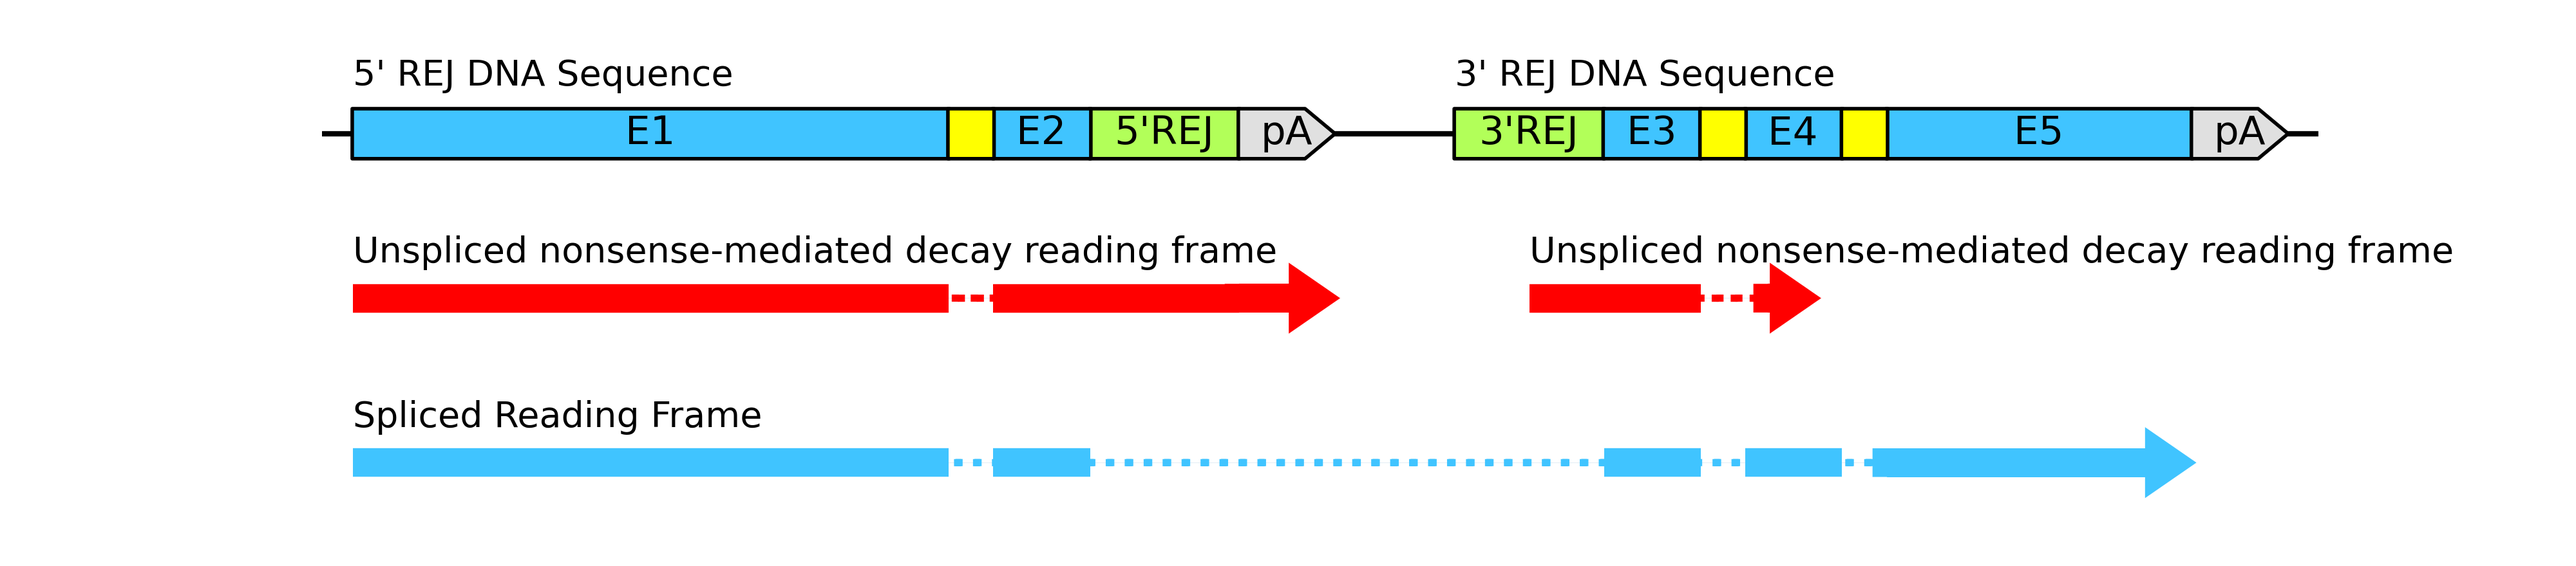
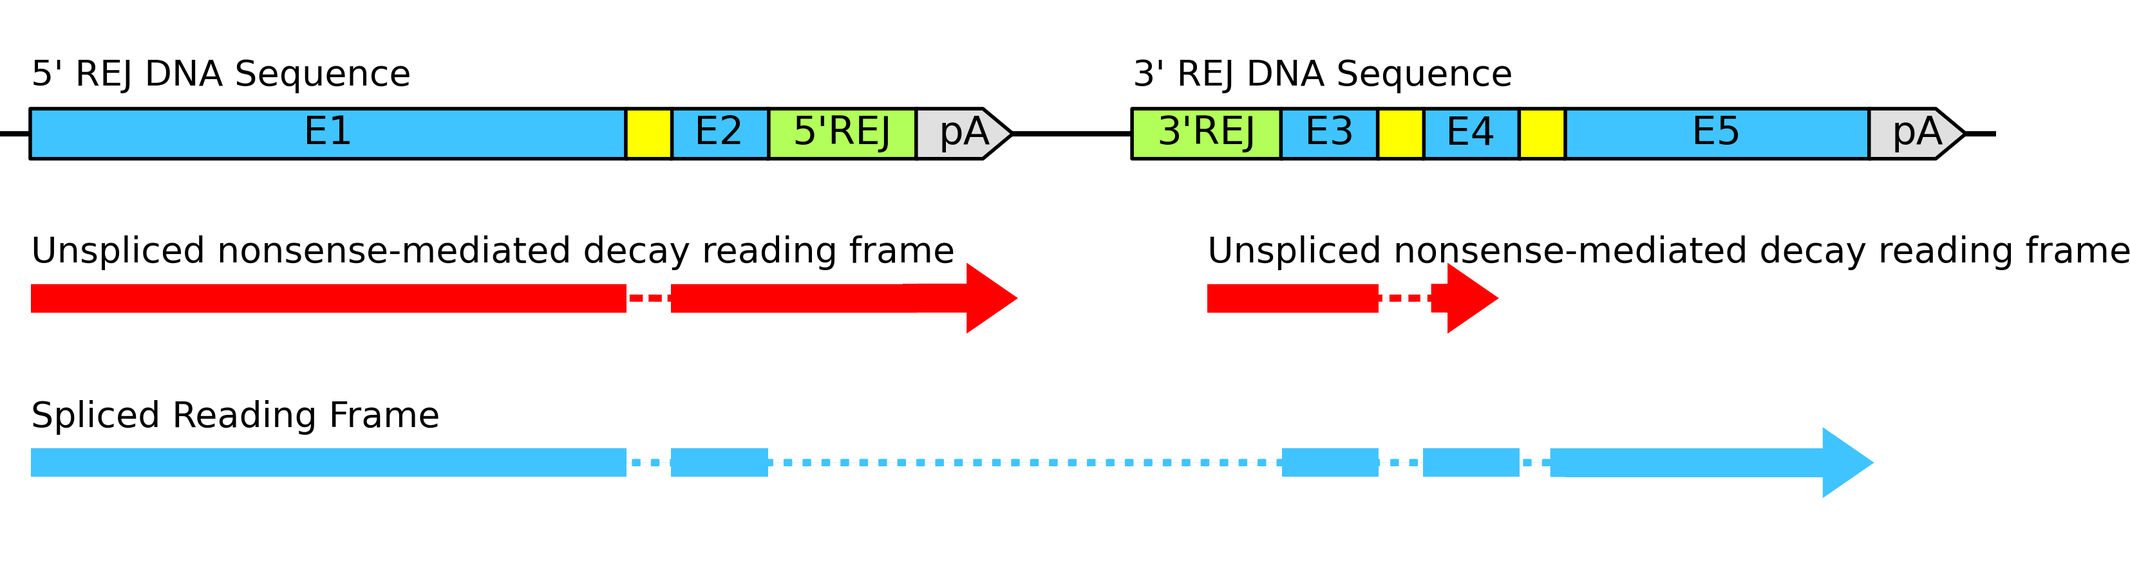
Experiment with layout

diff --git a/app/(design-tool)/_components/gene-splitter-form.tsx b/app/(design-tool)/_components/gene-splitter-form.tsx
@@ -127,10 +127,10 @@ function CodingSequenceInput() {
 function SpeciesSelect() {
   const { register } = useFormContext<FormValues>()
   return (
-    <div>
+    <div className="pb-2">
       <label
         htmlFor="species"
-        className="mb-2 block text-sm text-neutral-900 dark:text-white"
+        className="mb-2 block text-sm font-medium text-neutral-900 dark:text-white"
       >
         Species
       </label>
@@ -153,72 +153,79 @@ function SpeciesSelect() {
 
 function CustomizationOptions() {
   return (
-    <>
-      <h3 className="font-semibold">Customize your sequence</h3>
-      <NameInput />
-      <CodingSequenceInput />
-    </>
+    <div className="pt-2">
+      <h3 className="pb-2 text-lg font-semibold">Customize your sequence</h3>
+      <div className="flex flex-col gap-2">
+        <NameInput />
+        <CodingSequenceInput />
+      </div>
+    </div>
   )
 }
 
 function CodonOptimizationOptions() {
   const { register } = useFormContext<FormValues>()
   return (
-    <>
-      <h3 className="font-semibold">Codon Optimization</h3>
+    <div className="pt-2">
+      <h3 className="pb-2 text-lg font-semibold">Codon Optimization</h3>
       <SpeciesSelect />
-      <Checkbox
-        id="removeCrypticSpliceSites"
-        label="Remove cryptic splice sites"
-        {...register('removeCrypticSpliceSites')}
-      />
-      <Checkbox
-        id="induceOptimalSpliceSites"
-        label="Induce optimal splice sites"
-        {...register('induceOptimalSpliceSites')}
-      />
-    </>
-  )
-}
-
-function ThreeFragmentOptions() {
-  const { register } = useFormContext<FormValues>()
-  return (
-    <>
-      <h3 className="font-semibold">3&apos; Fragment options</h3>
-      <Checkbox
-        id="3PrimeStimulatoryIntron"
-        label="3' Stimulatory Intron"
-        {...register('3PrimeStimulatoryIntron')}
-      />
-      <Checkbox
-        id="3PrimePFSWithNMD"
-        label="Protein Fragment Suppression with Nonsense Mediated Decay"
-        {...register('3PrimePFSWithNMD')}
-      />
-    </>
+      <div className="flex flex-col gap-1">
+        <Checkbox
+          id="removeCrypticSpliceSites"
+          label="Remove cryptic splice sites"
+          {...register('removeCrypticSpliceSites')}
+        />
+        <Checkbox
+          id="induceOptimalSpliceSites"
+          label="Induce optimal splice sites"
+          {...register('induceOptimalSpliceSites')}
+        />
+      </div>
+    </div>
   )
 }
 
 function FiveFragmentOptions() {
   const { register } = useFormContext<FormValues>()
   return (
-    <>
-      <h3 className="font-semibold">5&apos; Fragment options</h3>
-      <Checkbox
-        id="5PrimeStimulatoryIntron"
-        label="5' Stimulatory Intron"
-        {...register('5PrimeStimulatoryIntron')}
-      />
-      <Checkbox
-        id="5PrimePFSWithNMD"
-        label="Protein Fragment Suppression with Nonstop Mediated Decay"
-        {...register('5PrimePFSWithNMD')}
-      />
-    </>
+    <div className="mt-4">
+      <h3 className="pb-2 text-lg font-semibold">5&apos; Fragment options</h3>
+      <div className="flex flex-col gap-1">
+        <Checkbox
+          id="5PrimeStimulatoryIntron"
+          label="5' Stimulatory Intron"
+          {...register('5PrimeStimulatoryIntron')}
+        />
+        <Checkbox
+          id="5PrimePFSWithNMD"
+          label="Protein Fragment Suppression with Nonstop Mediated Decay"
+          {...register('5PrimePFSWithNMD')}
+        />
+      </div>
+    </div>
   )
 }
 
+function ThreeFragmentOptions() {
+  const { register } = useFormContext<FormValues>()
+  return (
+    <div className="mt-4">
+      <h3 className="pb-2 text-lg font-semibold">3&apos; Fragment options</h3>
+      <div className="flex flex-col gap-1">
+        <Checkbox
+          id="3PrimeStimulatoryIntron"
+          label="3' Stimulatory Intron"
+          {...register('3PrimeStimulatoryIntron')}
+        />
+        <Checkbox
+          id="3PrimePFSWithNMD"
+          label="Protein Fragment Suppression with Nonsense Mediated Decay"
+          {...register('3PrimePFSWithNMD')}
+        />
+      </div>
+    </div>
+  )
+}
 function SubmitButton() {
   return (
     <Button type="submit" className="inline">
@@ -252,18 +259,19 @@ export default function GeneSplitterForm({
   return (
     <FormProvider {...methods}>
       <form onSubmit={methods.handleSubmit(handleSubmitForm)}>
-        <div className="flex flex-col gap-4">
-          <CustomizationOptions />
+        <CustomizationOptions />
+        <div className="pt-8">
           <Image
             src="/images/example-diagram.png"
             alt="A diagram showing how the different options of the form affect the result of RNA end-joining"
-            width={800}
-            height={176}
+            width={827}
+            height={220}
+            quality={100}
           />
-          <CodonOptimizationOptions />
-          <FiveFragmentOptions />
-          <ThreeFragmentOptions />
         </div>
+        <CodonOptimizationOptions />
+        <FiveFragmentOptions />
+        <ThreeFragmentOptions />
         <div className="mt-4">
           <SubmitButton />
         </div>

diff --git a/app/_components/footer.tsx b/app/_components/footer.tsx
@@ -1,23 +1,23 @@
 export default function Footer() {
   return (
-    <div className="flex flex-col pt-12">
-      <span className="text-neutral-400 dark:text-neutral-500">
+    <div className="container mx-auto flex max-w-screen-md flex-col px-4 pt-12">
+      <span className="mt-2 text-neutral-400 dark:text-neutral-500">
         Created by{' '}
         <a
           href="https://www.linkedin.com/in/ryan-hsu-18647295/"
-          className="text-neutral-500 underline-offset-2 hover:underline dark:text-neutral-400"
+          className="text-neutral-500 hover:underline dark:text-neutral-400"
         >
           Ryan Hsu
         </a>{' '}
         and{' '}
         <a
           href="https://www.linkedin.com/in/rlfarman/"
-          className="text-neutral-500 underline-offset-2 hover:underline dark:text-neutral-400"
+          className="text-neutral-500 hover:underline dark:text-neutral-400"
         >
           Richie Farman
         </a>
       </span>
-      <span className="text-sm text-neutral-400 underline-offset-2 hover:underline dark:text-neutral-500">
+      <span className="text-sm text-neutral-400 hover:underline dark:text-neutral-500">
         <a href="https://www.salk.edu/">
           PFAFF Lab at the Salk Institute for Biological Studies
         </a>

diff --git a/app/page.tsx b/app/page.tsx
@@ -1,0 +1,31 @@
+import GeneSearch from '@/search/components/gene-search'
+import Button from '@/components/button'
+
+export default function HomePage() {
+  return (
+    <div className="grid grid-cols-1 gap-y-16">
+      <div>
+        <h2 className="text-2xl font-bold">Start by finding your sequence</h2>
+        <p className="mt-4 max-w-prose text-lg text-gray-500 dark:text-gray-400">
+          You can find any known genetic sequence for humans and mice by
+          searching for the symbol of the gene (ex: TP53), the name of the gene
+          (ex: Tumor protein p53), or an Ensemble Transcript ID (ENST, ex:
+          ENST00000450115).
+        </p>
+        <div className="mt-2">
+          <GeneSearch />
+        </div>
+        <h2 className="mt-8 text-2xl font-bold">
+          Or, design a custom sequence
+        </h2>
+        <p className="mt-4 max-w-prose text-lg text-gray-500 dark:text-gray-400">
+          You can design your own custom sequence using an arbitrary coding
+          sequence.
+        </p>
+        <div className="mt-2">
+          <Button href="/design-tool">Design a custom sequence</Button>
+        </div>
+      </div>
+    </div>
+  )
+}

diff --git a/app/(search)/layout.tsx b/app/(search)/layout.tsx
@@ -12,16 +12,13 @@ export default function GeneSearchLayout({
 }: GeneSearchLayoutProperties) {
   return (
     <section className="w-full">
-      <p>
-        Search for a sequence by gene or Ensemble Transcript ID (ENST), or{' '}
-        <Link
-          href="/design-tool"
-          className="font-medium text-sky-600 underline-offset-2 hover:underline dark:text-sky-500"
-        >
-          customize your own
-        </Link>
+      <h2 className="text-2xl font-bold">Search for a sequence</h2>
+      <p className="mt-4 max-w-prose text-lg text-gray-500 dark:text-gray-400">
+        You can find any known genetic sequence for humans and mice by searching
+        for the symbol of the gene (ex: TP53), the name of the gene (ex: Tumor
+        protein p53), or an Ensemble Transcript ID (ENST, ex: ENST00000450115).
       </p>
-      {children}
+      <div className="mt-2">{children}</div>
     </section>
   )
 }

diff --git a/app/(search)/genes/[symbol]/_components/isoform-card.tsx b/app/(search)/genes/[symbol]/_components/isoform-card.tsx
@@ -44,7 +44,7 @@ export default function IsoformCard({
           </tr>
         </tbody>
       </table>
-      <div className="flex flex-col gap-2 pt-4 md:flex-row md:items-center md:gap-4">
+      <div className="mt-4 flex flex-col gap-2 md:flex-row md:items-center md:gap-4">
         <Button
           href={`/data/precomputed/REJ_${symbol}_${isoform.ENST}.zip`}
           download
@@ -53,7 +53,7 @@ export default function IsoformCard({
         </Button>
         <Link
           href={`/design-tool/${symbol}_${isoform.ENST}`}
-          className="block font-medium text-sky-600 underline-offset-2 underline-offset-2 hover:underline dark:text-sky-500"
+          className="block font-medium text-sky-600  hover:underline dark:text-sky-500"
         >
           Customize with design tool
         </Link>

diff --git a/app/(design-tool)/design-tool/layout.tsx b/app/(design-tool)/design-tool/layout.tsx
@@ -7,15 +7,11 @@ interface DesignToolLayoutProperties {
 function DesignToolLayout({ children }: DesignToolLayoutProperties) {
   return (
     <div>
-      <span>
-        Design a custom sequence, or{' '}
-        <Link
-          href="/"
-          className="font-medium text-sky-600 underline-offset-2 hover:underline dark:text-sky-500"
-        >
-          search by gene or Ensemble Transcript ID (ENST)
-        </Link>
-      </span>
+      <h2 className="text-2xl font-bold">Design a custom sequence</h2>
+      <p className="mt-4 max-w-prose text-lg text-gray-500 dark:text-gray-400">
+        You can design your own custom sequence using an arbitrary coding
+        sequence.
+      </p>
       <hr className="my-8 h-px border-0 bg-neutral-300 dark:bg-neutral-700" />
       {children}
     </div>

diff --git a/app/layout.tsx b/app/layout.tsx
@@ -18,14 +18,16 @@ export default function RootLayout({
   return (
     <html lang="en">
       <head />
-      <body className={openSans.className}>
-        <div className="container mx-auto flex min-h-screen max-w-screen-md flex-col justify-between px-4 py-4 sm:px-12">
-          <div>
-            <Header />
-            <div className="w-full pt-4">{children}</div>
+      <body
+        className={`${openSans.className} mx-auto flex min-h-screen flex-col justify-between pb-4`}
+      >
+        <div>
+          <Header />
+          <div className="container mx-auto mt-4 w-full max-w-screen-md flex-col px-4">
+            {children}
           </div>
-          <Footer />
         </div>
+        <Footer />
       </body>
     </html>
   )

diff --git a/app/_components/header.tsx b/app/_components/header.tsx
@@ -9,14 +9,16 @@ const tiltWarp = Tilt_Warp({
 
 export default function Header() {
   return (
-    <header className="w-full">
+    <header className="mx-auto max-w-screen-md pt-4">
       <div className="flex items-center">
-        <Image
-          src="/logo.svg"
-          alt="RNA End-joining Logo"
-          width={96}
-          height={96}
-        />
+        <div className="relative h-16 w-16 sm:h-24 sm:w-24">
+          <Image
+            src="/logo.svg"
+            alt="RNA End-joining Logo"
+            fill
+            sizes="(max-width: 768px) 6rem, 4rem"
+          />
+        </div>
         <Link href="/">
           <div>
             <h1

diff --git a/app/(search)/_components/gene-search.tsx b/app/(search)/_components/gene-search.tsx
@@ -42,6 +42,7 @@ export default function GeneSearch({ defaultGene }: GeneSearchProperties) {
     <Combobox value={selected} onChange={handleChange}>
       {({ open }) => (
         <div className="relative">
+          <Combobox.Label className="block">Search for a gene</Combobox.Label>
           <div className="relative mt-2 inline-block cursor-default overflow-hidden">
             <Combobox.Input
               className="block w-full rounded-lg border border-neutral-300 bg-neutral-50 p-3 text-sm text-neutral-900 dark:border-neutral-600 dark:bg-neutral-700 dark:text-white dark:placeholder-neutral-400"

diff --git a/app/(design-tool)/design-tool/[gene-and-isoform]/page.tsx b/app/(design-tool)/design-tool/[gene-and-isoform]/page.tsx
@@ -39,7 +39,7 @@ export default async function DesignToolPage({
   const defaultCodingSequence = enst ? await getData(enst) : ''
   const defaultSpecies = getSpeciesFromEnst(enst)
   return (
-    <div className="pt-4">
+    <div className="mt-4">
       <GeneSplitterForm
         defaultName={symbol}
         defaultCodingSequence={defaultCodingSequence}

diff --git a/app/(design-tool)/design-tool/page.tsx b/app/(design-tool)/design-tool/page.tsx
@@ -3,7 +3,7 @@ import GeneSplitterForm from '@/design-tool/components/gene-splitter-form'
 function DesignToolPage() {
   return (
     <div>
-      <div className="pt-4">
+      <div className="mt-4">
         <GeneSplitterForm />
       </div>
     </div>
